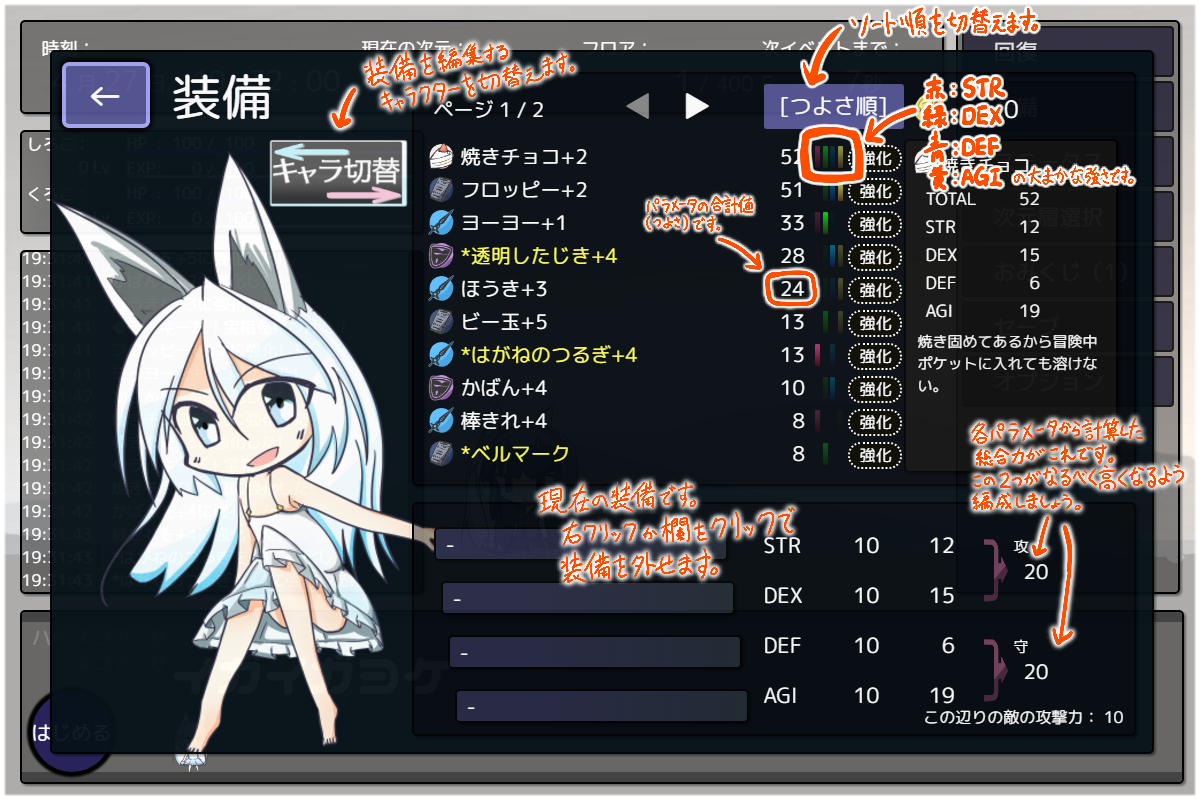
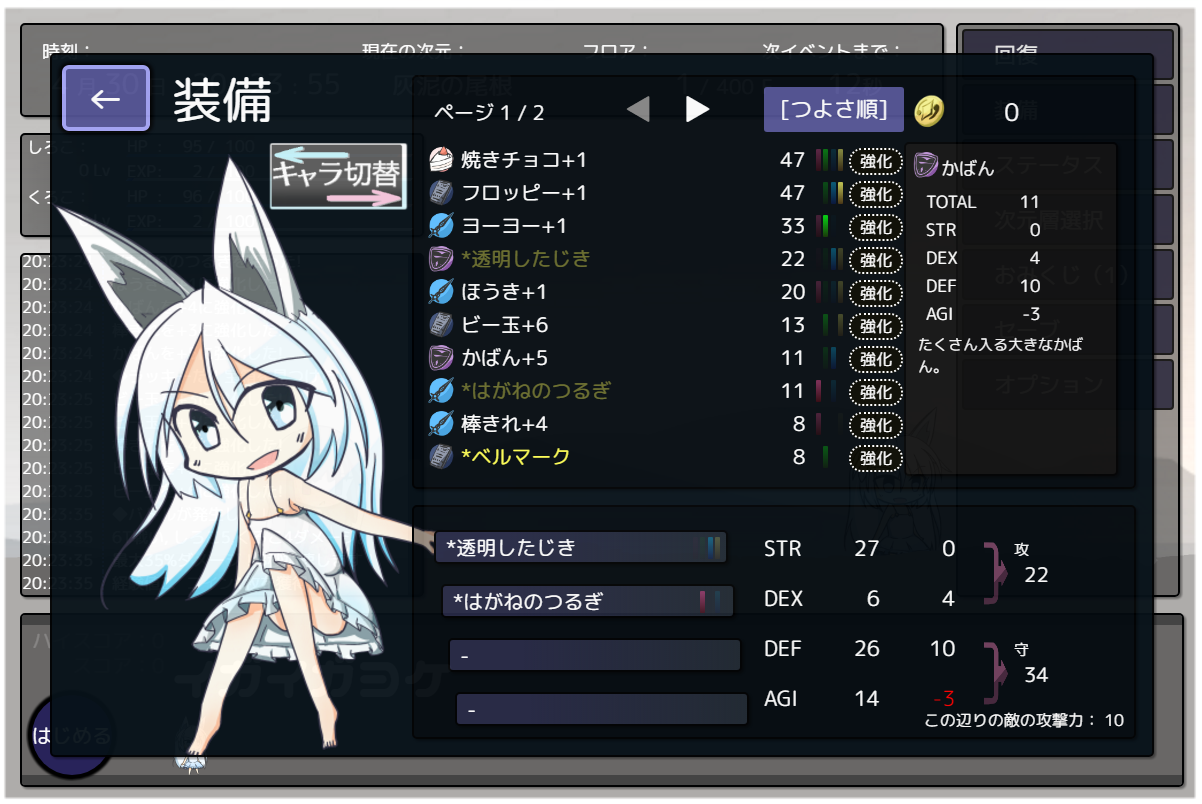
マニュアル仮完成

diff --git a/nekomanual.html b/nekomanual.html
@@ -50,11 +50,48 @@
 			</dl>
 			<h1>装備</h1>
 			<div class="panel">
+				<div id="equip_1" class="description">①</div>
+				<div id="equip_2" class="description">②</div>
+				<div id="equip_3" class="description">③</div>
+				<div id="equip_4" class="description">④</div>
+				<div id="equip_5" class="description">⑤</div>
+				<div id="equip_6" class="description">⑥</div>
+				<div id="equip_7" class="description">⑦</div>
+				<div id="equip_8" class="description">⑧</div>
+				<div id="equip_9" class="description">⑨</div>
+				<div id="equip_10" class="description">⑩</div>
+				<div id="equip_11" class="description">⑪</div>
 			<img src="images/neko/manual/equip.png" class="screenshot">
 			</div>
+			<dl>
+				<dt>①キャラ切替ボタン</dt><dd>装備を編集するキャラを切り替えます。</dd>
+				<dt>②ページ切替ボタン</dt><dd>次のページ・前のページに移動します。</dd>
+				<dt>③ソート変更ボタン</dt><dd>ソート順を変更します。（強さ順→STR順→DEX順→DEF順→AGI順→ID順）</dd>
+				<dt>④装備詳細エリア</dt><dd>現在調べている装備の詳細データが表示されます。</dd>
+				<dt>⑤装備</dt><dd>クリックで装備を行います。</dd>
+				<dt>⑥インデックス</dt><dd>STR:赤、DEX:緑、DEF:青、AGI:黄のバーで装備の強さを簡易表示します。</dd>
+				<dt>⑦強化ボタン</dt><dd>装備強化メニューを展開します。+10以上には強化できません。</dd>
+				<dt>⑧現在装備</dt><dd>現在の装備を表示します。クリックでその装備を外します。</dd>
+				<dt>⑨総合パラメータ</dt><dd>現在のパラメータ合計と選択中装備のパラメータを表示します。</dd>
+				<dt>⑩最終パラメータ</dt><dd>STR/DEXから計算した攻撃力、DEF/AGIから計算した守備力を表示します。</dd>
+				<dt>⑪周辺の敵の攻撃力</dt><dd>現在の階層での敵の平均攻撃力を表示します。</dd>
+			</dl>
 			<h1>戦闘</h1>
+			<img src="images/neko/manual/battle.png" class="screenshot">
+			<p>敵に出会うと自動的に戦闘を行います。一撃でたくさんのダメージを与えると、次イベントまでの待ち時間が短縮されます。</p>
+			<p>ダメージは原則的に「敵の攻撃力-各キャラの守備力」だけ受けます。守備力が上回った場合には、<b>最大HPの0.5倍</b>程度のダメージを喰らいます。守備力が敵攻撃力の2倍以上に至るほどに圧倒している場合、さらにダメージを減衰させることができます。</p>
 			<h1>おみくじ</h1>
+			<img src="images/neko/manual/omikuji.png" class="screenshot">
+			<p>コインを消費して、現在階層では手に入らない高ランク武器を高い強化値で手に入れられるおみくじです。</p>
+			<p>通常武器は+10までしか強化できませんが、おみくじで引いた武器はそれ以上の強化値がつくことがあります。</p>
+			<p>10時間ごとに無料で1回引けます。</p>
+			<p>もし引いた武器がすでに持っており、強化値も小さいものだった場合50コインが返却されます。</p>
 			<h1>小ネタ・仕様</h1>
+				<p>ウィンドウを閉じても、再度ゲームを開いたときに不在時のイベント処理を一気に行います。<b>ただし戦闘ボーナスの時間短縮分は取りこぼします。</b>少しだけ効率が悪くなるので最速で潜りたい場合はウィンドウを開きっぱなしにする必要があります。</p>
+				<p>ステータス画面で確認できる実績は１つクリアするごとに1秒イベント待ち時間を恒久的に短縮します。10個全部クリアでデフォルトの40秒から30秒まで短縮されるので、狙っていく価値はあります。</p>
+				<p>イガイガヨケのプレイ中はキーボードのどこを押してもジャンプします。お好きなキーでプレイしてみてください。</p>
+				<p>イガイガヨケは2段ジャンプができます。大きなイガはタイミングよくジャンプして高度を稼いでみましょう。</p>
+				<p>イガイガヨケは2000点、3000点、4000点を境に大幅に報酬が良くなります。まずは安定して2000点を目指しましょう。4000点はイガイガ運に大きく左右されます。</p>
 		</article>
 
 	</div>

diff --git a/css/panels.css b/css/panels.css
@@ -28,3 +28,70 @@
 	width: 875px;
 	height: 125px;
 }
+
+#equip_1{
+	top: 98px;
+	left: 193px;
+	width: 112px;
+	height: 58px;
+}
+#equip_2{
+	top: 50px;
+	left: 445px;
+	width: 95px;
+	height: 50px;
+}
+#equip_3{
+	top: 50px;
+	left: 555px;
+	width: 125px;
+	height: 50px;
+}
+#equip_4{
+	top: 108px;
+	left: 685px;
+	width: 142px;
+	height: 240px;
+}
+#equip_5{
+	top: 168px;
+	left: 305px;
+	width: 362px;
+	height: 40px;
+}
+#equip_6{
+	top: 240px;
+	left: 575px;
+	width: 55px;
+	height: 40px;
+}
+#equip_7{
+	top: 295px;
+	left: 615px;
+	width: 55px;
+	height: 40px;
+}
+#equip_8{
+	top: 385px;
+	left: 315px;
+	width: 228px;
+	height: 40px;
+}
+#equip_9{
+	top: 385px;
+	left: 555px;
+	width: 158px;
+	height: 140px;
+}
+#equip_10{
+	top: 385px;
+	left: 745px;
+	width: 50px;
+	height: 125px;
+}
+#equip_11{
+	top: 525px;
+	left: 735px;
+	width: 108px;
+	height: 40px;
+}

diff --git a/css/nekomanual.css b/css/nekomanual.css
@@ -44,11 +44,24 @@ b{
 	color: #41459b;
 }
 
+ul{
+	margin-top: 10px;
+	margin-bottom: 10px;
+}
 li{
 
 }
 li:before{
 	content: "・"
+}
+
+p{
+	margin-top: 10px;
+	margin-bottom: 10px;
+	margin-left: 100px;
+	background-color: #efefef;
+	width: 900px;
+	border-radius: 10px;
 }
 
 .screenshot{
@@ -80,6 +93,8 @@ dl{
 	background-color: #efefef;
 	border-radius: 10px;
 	width: 900px;
+	margin-top: 10px;
+	margin-bottom: 10px;
 }
 dt{
 	display: inline-block;
